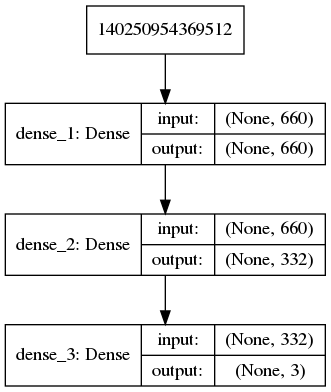
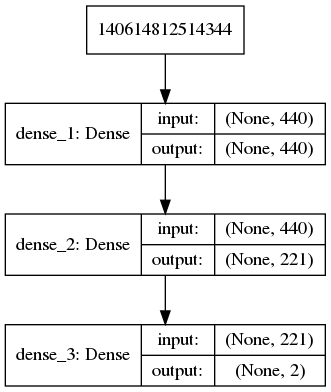
Add generate_training_data_in_memory

diff --git a/train_ai.py b/train_ai.py
@@ -5,10 +5,62 @@ from keras.utils import plot_model
 import matplotlib.pyplot as plt
 import numpy as np
 from matplotlib import cm
-from mpl_toolkits.mplot3d import Axes3D
+from mpl_toolkits.mplot3d import Axes3D  # required
 
 from generate_data_pgmpy import DilemmaGenerator
-from manage_data import TrainMetadata, write_data_to_file, read_data_from_file
+from manage_data import TrainMetadata, write_data_to_file, read_data_from_file, \
+    preprocess_data_before_saving
+
+
+def plot_data():
+    x = np.array([100, 80, 50])
+    y = np.array([90, 85, 80])
+    X, Y = np.meshgrid(x, y)
+    Z = np.array(
+        [
+            [.74124, .8818, .99996],
+            [.99992, .99998, 1],
+            [1, 1, 1]
+        ]
+    )
+
+    contours = plt.contour(X, Y, Z)
+    plt.clabel(contours, inline=True, inline_spacing=5)
+    plt.colorbar()
+
+    fig = plt.figure()
+    ax = fig.gca(projection='3d')
+    ax.plot_surface(X, Y, Z, cmap=cm.coolwarm)
+    ax.view_init(30, 30)
+
+    plt.show()
+
+
+def generate_training_data_in_memory(metadata: TrainMetadata):
+    generators = [
+        DilemmaGenerator(
+            option_vals=[
+                [0.6, 0.4]
+            ],
+            jaywalking_vals=[
+                [0.5, 0.5],
+                [0.5, 0.5]
+            ]
+        ),
+        DilemmaGenerator(
+            option_vals=[
+                [0.4, 0.6]
+            ],
+            jaywalking_vals=[
+                [0.5, 0.5],
+                [0.5, 0.5]
+            ]
+        )
+    ]
+
+    data, labels = preprocess_data_before_saving(metadata, generators)
+    return data, labels, metadata
+
 
 if __name__ == '__main__':
     # write_data_to_file(TrainMetadata(50000, 10), [
@@ -31,7 +83,7 @@ if __name__ == '__main__':
     #         ]
     #     )
     # ], "train 80-10-10 50-50 50-50 50-50 and 10-10-80 50-50 50-50 50-50")
-
+    #
     # write_data_to_file(TrainMetadata(50000, 10), [
     #     DilemmaGenerator(
     #         option_vals=[
@@ -44,75 +96,43 @@ if __name__ == '__main__':
     #     )
     # ], "test 40-30-30 0-100 100-0 100-0")
 
-    # x = np.array([100, 80, 50])
-    # y = np.array([90, 85, 80])
-    # X, Y = np.meshgrid(x, y)
-    # Z = np.array(
-    #     [
-    #         [.74124, .8818, .99996],
-    #         [.99992, .99998, 1],
-    #         [1, 1, 1]
-    #     ]
-    # )
-
-    gen = DilemmaGenerator(
-        option_vals=[
-            [0.8, 0.1, 0.1]
-        ],
-        jaywalking_vals=[
-            [0.5, 0.5, 0.5],
-            [0.5, 0.5, 0.5]
-        ]
-    )
-
-    thing = gen.generate_dilemma(10)
-    print("")
-
-    # contours = plt.contour(X, Y, Z)
-    # plt.clabel(contours, inline=True, inline_spacing=5)
-    # plt.colorbar()
-
-    # fig = plt.figure()
-    # ax = fig.gca(projection='3d')
-    # ax.plot_surface(X, Y, Z, cmap=cm.coolwarm)
-    # ax.view_init(30, 30)
-
-    # plt.show()
-
     # (train_data, train_labels, train_metadata) = read_data_from_file(
     #     "train 80-10-10 50-50 50-50 50-50 and 10-10-80 50-50 50-50 50-50")
-    # (test_data, test_labels, test_metadata) = read_data_from_file(
-    #     "test 40-30-30 0-100 100-0 100-0")
-    #
-    # model = Sequential()
-    #
-    # # 22 elements per option, 3 options, each option padded to max number of people
-    # output_dim = 3
-    # input_dim = 22 * output_dim * train_metadata.max_num_people_per_option
-    #
-    # model.add(Dense(units=input_dim, activation='relu',
-    #                 input_dim=input_dim))
-    #
-    # model.add(Dense(units=round((input_dim + output_dim) / 2), activation='relu'))
-    #
-    # # Output layer dimension is 2 (class 1 is first_option and class 2 is second_option).
-    # model.add(Dense(units=output_dim, activation='softmax'))
-    #
-    # plot_model(model, to_file="model.png", show_shapes=True, show_layer_names=True)
-    #
-    # model.compile(loss=losses.categorical_crossentropy,
-    #               optimizer='sgd',
-    #               metrics=[metrics.categorical_accuracy])
-    #
-    # model.fit(train_data, train_labels, epochs=5, batch_size=32)
-    #
-    # (loss, accuracy) = model.evaluate(test_data, test_labels, batch_size=32)
-    # print("Loss:")
-    # print(loss)
-    # print("Accuracy:")
-    # print(accuracy)
-    #
-    # print("Predictions:")
-    # print(model.predict(test_data))
-    # print("Expected:")
-    # print(test_labels)
+
+    train_data, train_labels, train_metadata = generate_training_data_in_memory(
+        TrainMetadata(500, 10))
+    test_data, test_labels, test_metadata = read_data_from_file(
+        "test option 40-60 jaywalking 100-0 0-100")
+
+    model = Sequential()
+
+    # 22 elements per option, 3 options, each option padded to max number of people
+    output_dim = 2
+    input_dim = 22 * output_dim * train_metadata.max_num_people_per_option
+
+    model.add(Dense(units=input_dim, activation='relu',
+                    input_dim=input_dim))
+
+    model.add(Dense(units=round((input_dim + output_dim) / 2), activation='relu'))
+
+    # Output layer dimension is 2 (class 1 is first_option and class 2 is second_option).
+    model.add(Dense(units=output_dim, activation='softmax'))
+
+    plot_model(model, to_file="model.png", show_shapes=True, show_layer_names=True)
+
+    model.compile(loss=losses.categorical_crossentropy,
+                  optimizer='sgd',
+                  metrics=[metrics.categorical_accuracy])
+
+    model.fit(train_data, train_labels, epochs=5, batch_size=32)
+
+    (loss, accuracy) = model.evaluate(test_data, test_labels, batch_size=32)
+    print("Loss:")
+    print(loss)
+    print("Accuracy:")
+    print(accuracy)
+
+    print("Predictions:")
+    print(model.predict(test_data))
+    print("Expected:")
+    print(test_labels)

diff --git a/manage_data.py b/manage_data.py
@@ -1,5 +1,3 @@
-import itertools
-
 import jsonpickle
 import numpy as np
 
@@ -13,7 +11,7 @@ class TrainMetadata:
         self.max_num_people_per_option = max_num_people_per_option
 
 
-def write_data_to_file(metadata: TrainMetadata, generators, name: str):
+def preprocess_data_before_saving(metadata: TrainMetadata, generators):
     data_tuples = [
         generate_training_data(generator,
                                metadata.max_num_people_per_option,
@@ -29,12 +27,18 @@ def write_data_to_file(metadata: TrainMetadata, generators, name: str):
     for item in [x[1] for x in data_tuples]:
         [labels.append(x) for x in item]
 
+    return np.array(data), np.array(labels)
+
+
+def write_data_to_file(metadata: TrainMetadata, generators, name: str):
+    data, labels = preprocess_data_before_saving(metadata, generators)
+
     data_file = open(name + "_data", "w")
-    data_file.write(jsonpickle.encode(np.array(data)))
+    data_file.write(jsonpickle.encode(data))
     data_file.close()
 
     labels_file = open(name + "_labels", "w")
-    labels_file.write(jsonpickle.encode(np.array(labels)))
+    labels_file.write(jsonpickle.encode(labels))
     labels_file.close()
 
     metadata_file = open(name + "_metadata", "w")
